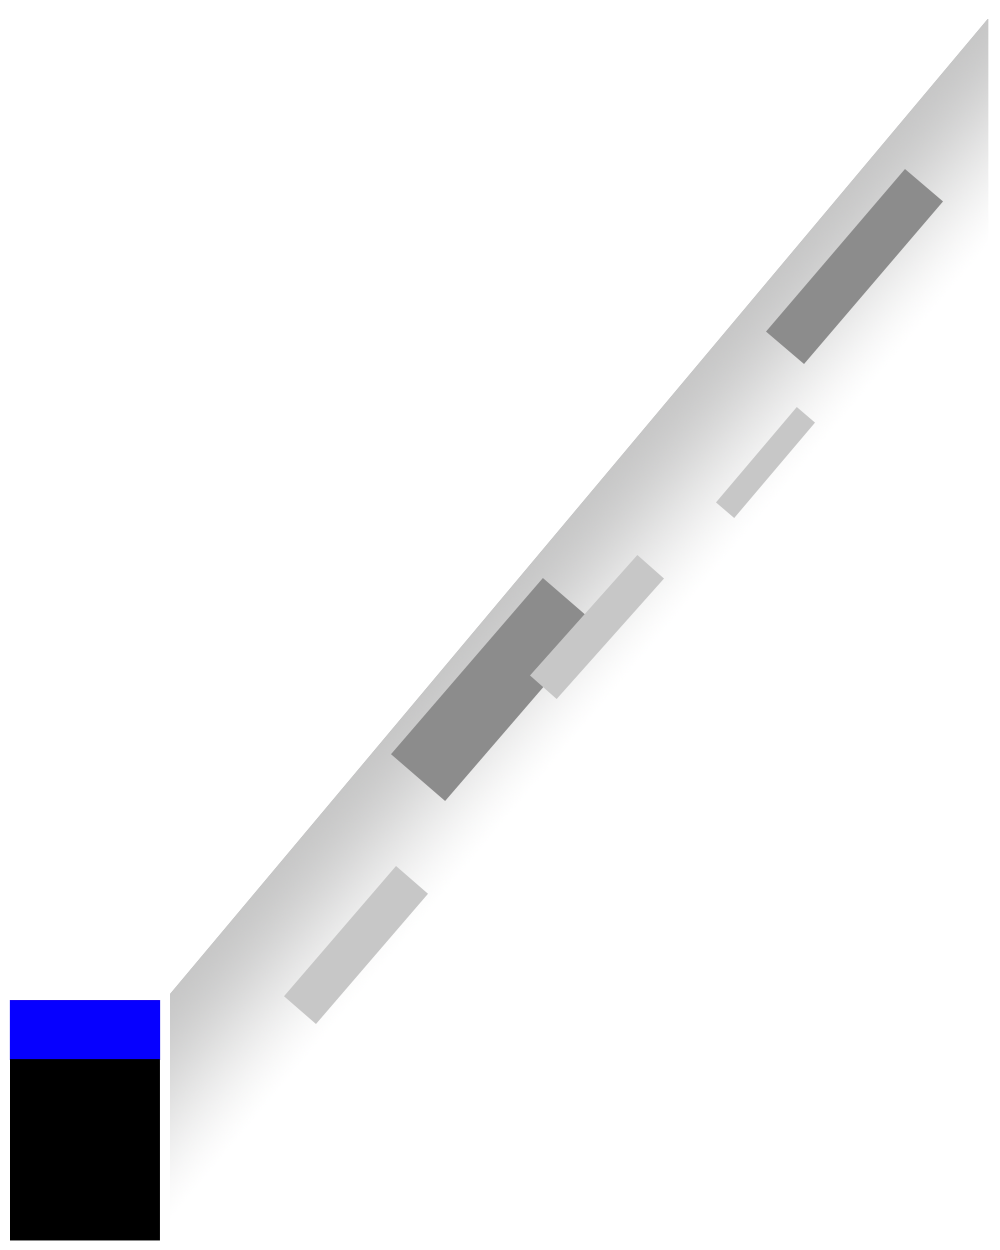
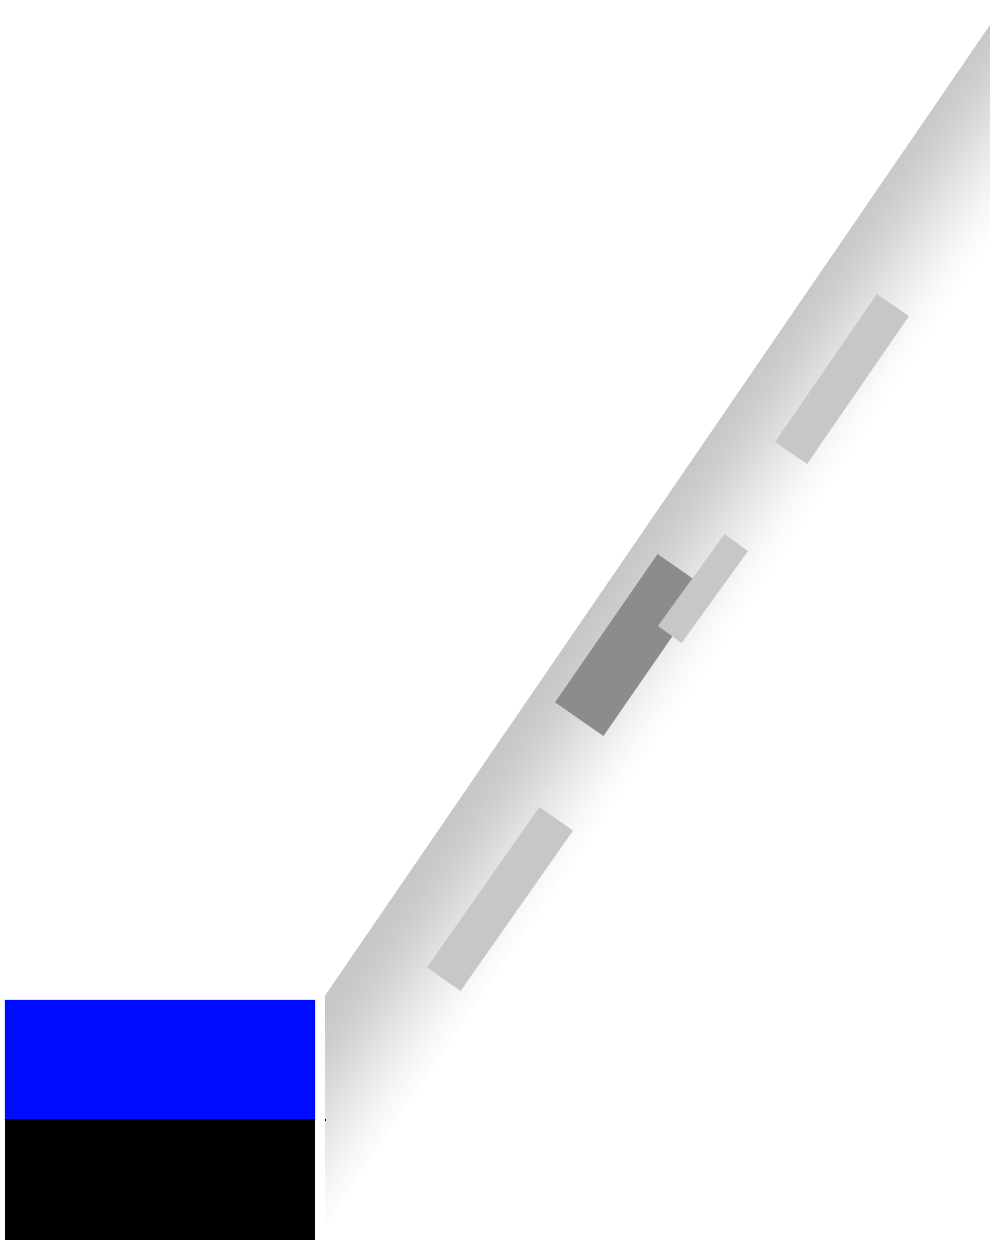
캐릭터 회전 버그수정 + 새로운 sprite들 다 수정 완료

Changed region(s): [[0.0, 0.0, 0.992, 0.9984]]

diff --git a/Vexatonic_Dash/Assets/Scripts/CharacterControl.cs b/Vexatonic_Dash/Assets/Scripts/CharacterControl.cs
@@ -68,6 +68,7 @@ public class CharacterControl : MonoBehaviour
         Vector3 stopoverPos;
 
         if (note.angle == 0) {
+            gameObject.transform.localEulerAngles = Vector3.zero;
             while (adjustedTime < playerMovingTime + 0.166f)
             {
                 Vector3 targetPosition = platformNote.startPos * (playerMovingTime - adjustedTime) / playerMovingTime + platformNote.endPos * adjustedTime / playerMovingTime;
@@ -80,6 +81,7 @@ public class CharacterControl : MonoBehaviour
         else {
             forwardMovingTime = playerMovingTime * 0.16f / (platformNote.endPos.x - platformNote.startPos.x);
             stopoverPos = platformNote.startPos + new Vector3(0.16f, 0);
+            gameObject.transform.localEulerAngles = Vector3.zero;
             while (adjustedTime < forwardMovingTime) {
                 Vector3 targetPosition = platformNote.startPos * (forwardMovingTime - adjustedTime) / forwardMovingTime + stopoverPos * adjustedTime / forwardMovingTime;
                 gameObject.transform.position = targetPosition;
